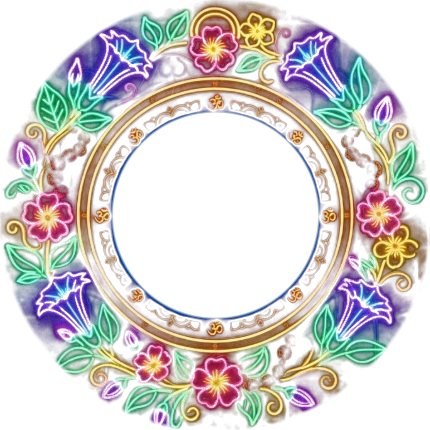
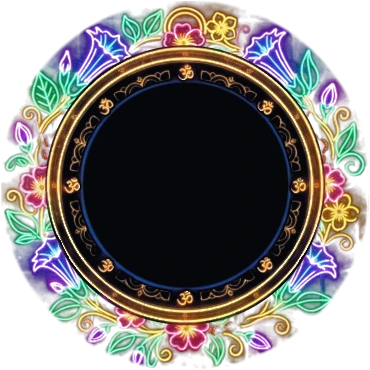
Jyotirlinga Compass: slim floral border, no star (Mohit's choice)
Slim frame (floral band at 60%) is now the only frame and no star is drawn;
both comparison switches removed. The full-border frame file is deleted and
the slim one renamed to img/compass-frame.webp. Trishul keeps its approved
on-screen length (159.6 px on a 390 px phone).

Claude-Session: https://claude.ai/code/session_01Hxbxsmdo45GaN6PaciHAM9

diff --git a/demos/jyotirlinga-compass/index.html b/demos/jyotirlinga-compass/index.html
@@ -78,8 +78,8 @@
   #dialcard{text-align:center}
   #dialwrap{position:relative;width:calc(100% + 28px);max-width:430px;margin:0 -14px}
   @media (min-width:480px){ #dialwrap{margin:0 auto;width:100%} }
-  #dial{display:block;width:100%;height:auto}
-  #dial.slim{width:86.3%;margin:0 auto}
+  /* 86.3% keeps the trishul at its approved size: the dial's box is 328 units, not 380 */
+  #dial{display:block;width:86.3%;height:auto;margin:0 auto}
   .target-dv{font-family:var(--deva);font-size:23px;font-weight:700;color:var(--gold);margin:2px 0 0;line-height:1.35}
   .target-en{font-size:15px;color:var(--text);margin:1px 0 0}
   .target-pl{font-size:12.5px;color:var(--muted);margin:3px 0 12px}
@@ -183,7 +183,7 @@
     <div id="dialwrap">
       <!-- The dial is drawn from scratch: a rose that turns so N sits at true north,
            and a gold needle that turns to the shrine. -->
-      <svg id="dial" viewBox="-40 -40 380 380" aria-label="Compass dial">
+      <svg id="dial" viewBox="-14 -14 328 328" aria-label="Compass dial">
         <defs>
           <radialGradient id="g-face" cx="50%" cy="42%" r="60%">
             <stop offset="0%" stop-color="#0d1630"/><stop offset="100%" stop-color="#05060A"/>
@@ -199,18 +199,20 @@
         </defs>
         <!-- The frame: wreath, rudraksha beads and the gold ring with eight Oms,
              cut from Mohit's artwork. It stays still, like a compass's bezel.
-             The dial's centre is still (150,150); the frame reaches 190 units out. -->
-        <image id="frame" href="img/compass-frame.webp" x="-40" y="-40" width="380" height="380"/>
+             The floral band is 60% of the original's width: the wreath is scaled
+             to 0.856 and tucked behind the Om ring, so the flowers keep their shape.
+             The dial's centre is (150,150); the frame reaches 163.5 units out. -->
+        <image id="frame" href="img/compass-frame.webp" x="-13.5" y="-13.5" width="327" height="327"/>
         <!-- the face inside the Om ring -->
         <circle cx="150" cy="150" r="89" fill="url(#g-face)"/>
-        <!-- Rose: turns by minus the heading, so its north point shows true north.
-             Blue neon rings, 24 ticks (north in red) and the 8-point star. -->
+        <!-- Rose: turns by minus the heading, so its red north tick shows true north.
+             Blue neon rings and 24 ticks. (No star: with the trishul and damaru on
+             top it looked busy.) -->
         <g id="rose" filter="url(#f-neon)">
           <circle cx="150" cy="150" r="88" fill="none" stroke="#4cc9ff" stroke-width="1.8"/>
           <circle cx="150" cy="150" r="78" fill="none" stroke="rgba(76,201,255,.55)" stroke-width="1"/>
           <circle cx="150" cy="150" r="57" fill="none" stroke="#4cc9ff" stroke-width="1.5"/>
           <g id="ticks"></g>
-          <g id="star"></g>
         </g>
         <!-- The eight direction names sit on the turning rose but stay upright, so
              they stay readable however the phone is held. Filled in by script. -->
@@ -285,7 +287,7 @@
       <tr><td>Damaru sound</td><td>Original, synthesised in the browser (Web Audio API)</td><td>—</td><td>27 Nov 2026</td><td>None. No recording used.</td></tr>
       <tr><td>Pooja bell (ghanti) sound</td><td>Original, synthesised in the browser (Web Audio API)</td><td>—</td><td>27 Nov 2026</td><td>None. No recording used.</td></tr>
       <tr><td>Compass frame: flower wreath, rudraksha beads, gold ring with Oms</td><td>Generated by Mohit with an AI image tool; check its terms</td><td>—</td><td>27 Nov 2026</td><td>Cut from Mohit's artwork; stone wall removed. Source was 494 px: replace with the full-size original for a sharper frame.</td></tr>
-      <tr><td>Compass card: blue rings, ticks, 8-point star</td><td>Original, drawn in code for this page</td><td>—</td><td>27 Nov 2026</td><td>None</td></tr>
+      <tr><td>Compass card: blue rings and ticks</td><td>Original, drawn in code for this page</td><td>—</td><td>27 Nov 2026</td><td>None</td></tr>
       <tr><td>Geist, Tiro Devanagari Hindi</td><td>SIL Open Font License 1.1</td><td><a href="https://fonts.google.com/">Google Fonts</a></td><td>26 Nov 2026</td><td>None</td></tr>
     </table>
     </div>
@@ -301,17 +303,7 @@
    Jyotirlinga Compass — Level A (web compass, no AR)
    One file, no build step, no libraries.
    ===================================================================== */
-/* Frame choice, to compare on a phone: ?frame=slim gives the floral band at
-   60% of its width. The wreath is scaled to 0.856 and tucked behind the Om
-   ring, so the flowers are not squashed. The dial's box shrinks to match
-   (328 / 380 = 86.3%), so the Om ring, card and trishul keep their size. */
-if (new URLSearchParams(location.search).get('frame') === 'slim'){
-  const f = document.getElementById('frame'), d = document.getElementById('dial');
-  f.setAttribute('href', 'img/compass-frame-slim.webp');
-  f.setAttribute('x', '-13.5'); f.setAttribute('y', '-13.5'); f.setAttribute('width', '327'); f.setAttribute('height', '327');
-  d.setAttribute('viewBox', '-14 -14 328 328'); d.classList.add('slim');
-}
-const BUILD = 'Jyotirlinga Compass · Level A + B · 27 Nov 2026 · r6';
+const BUILD = 'Jyotirlinga Compass · Level A + B · 27 Nov 2026 · r7';
 const $ = id => document.getElementById(id);
 $('stamp').textContent = BUILD;
 
@@ -454,25 +446,6 @@ list.addEventListener('click', e => {
     if (i === 0) n = seg; else d += seg;
   }
   $('ticks').innerHTML = `<path d="${d}" stroke="rgba(236,235,255,.55)" stroke-width="1"/><path d="${n}" stroke="#ff6b8a" stroke-width="2.2"/>`;
-
-  /* The 8-point star. Each point is two thin triangles meeting along its
-     spine, one lit and one shaded, so it looks faceted like the artwork.
-     Example, the east point (90 deg, 46 long, 4 wide): tip at (196,150),
-     side corners at (150,146) and (150,154), both triangles share the centre. */
-  const pt = (deg, len, w, lit, shade) => {
-    const a = toRad(deg), tx = 150 + len * Math.sin(a), ty = 150 - len * Math.cos(a);
-    const lx = 150 + w * Math.sin(a - Math.PI / 2), ly = 150 - w * Math.cos(a - Math.PI / 2);
-    const rx = 150 + w * Math.sin(a + Math.PI / 2), ry = 150 - w * Math.cos(a + Math.PI / 2);
-    return `<path d="M150 150L${tx.toFixed(1)} ${ty.toFixed(1)}L${lx.toFixed(1)} ${ly.toFixed(1)}Z" fill="${lit}"/>`
-         + `<path d="M150 150L${tx.toFixed(1)} ${ty.toFixed(1)}L${rx.toFixed(1)} ${ry.toFixed(1)}Z" fill="${shade}"/>`;
-  };
-  // Thin points, so the trishul and damaru stay the focus. ?star=none leaves the star out.
-  let star = '';
-  if (new URLSearchParams(location.search).get('star') !== 'none'){
-    [45, 135, 225, 315].forEach(dg => star += pt(dg, 25, 2.6, '#9fe3ff', '#2f86d1'));  // the corners, blue
-    [0, 90, 180, 270].forEach(dg => star += pt(dg, 46, 4, '#ffd77a', '#e5832a'));      // the four main points, gold
-  }
-  $('star').innerHTML = star;
 })();
 
 /* Draw the eight names once: Hindi on top, the English letters small beneath.
